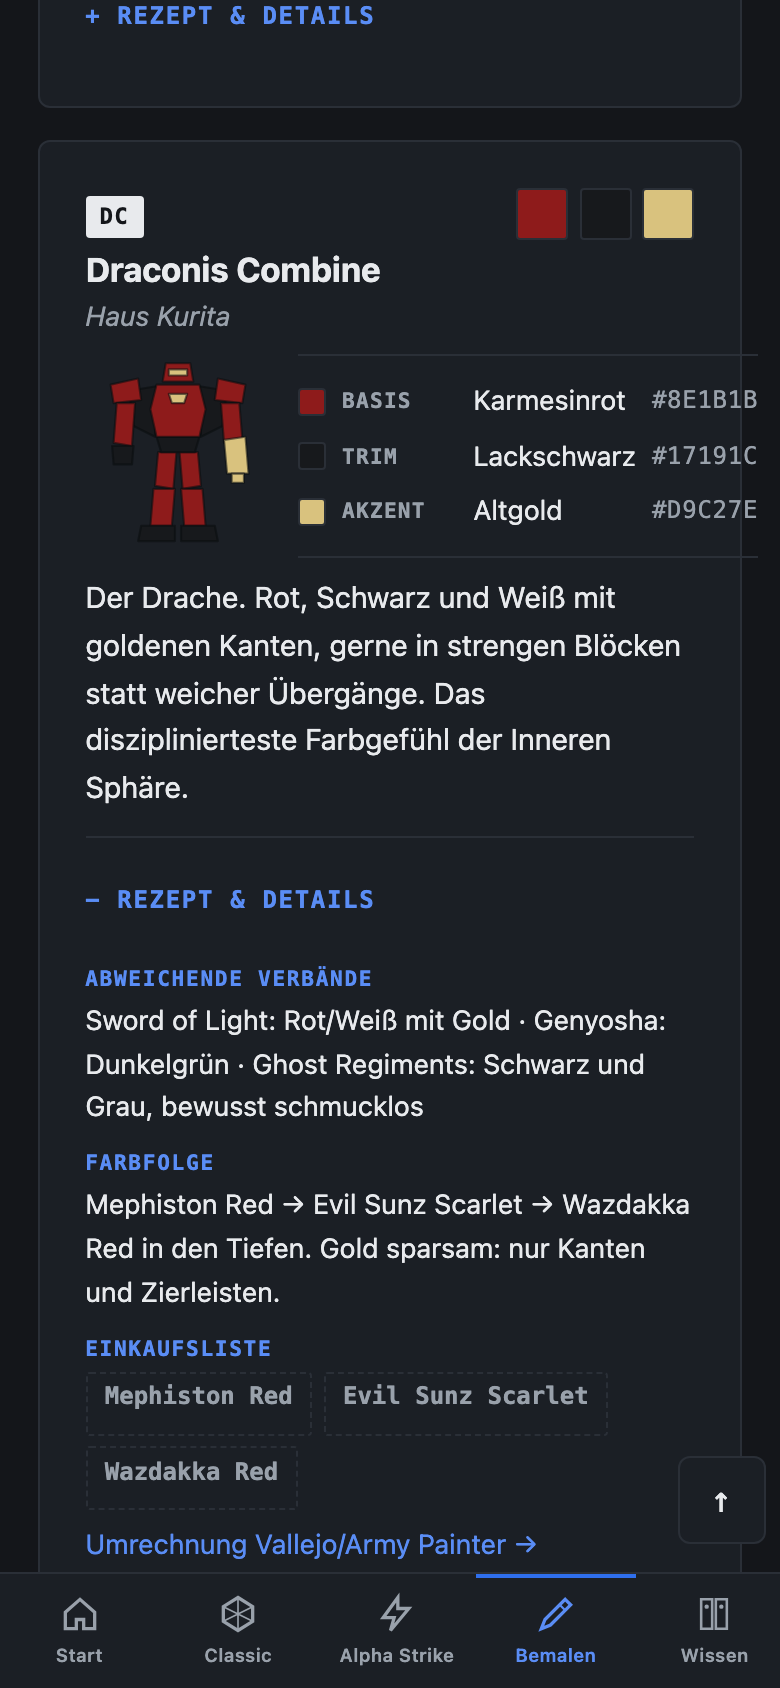
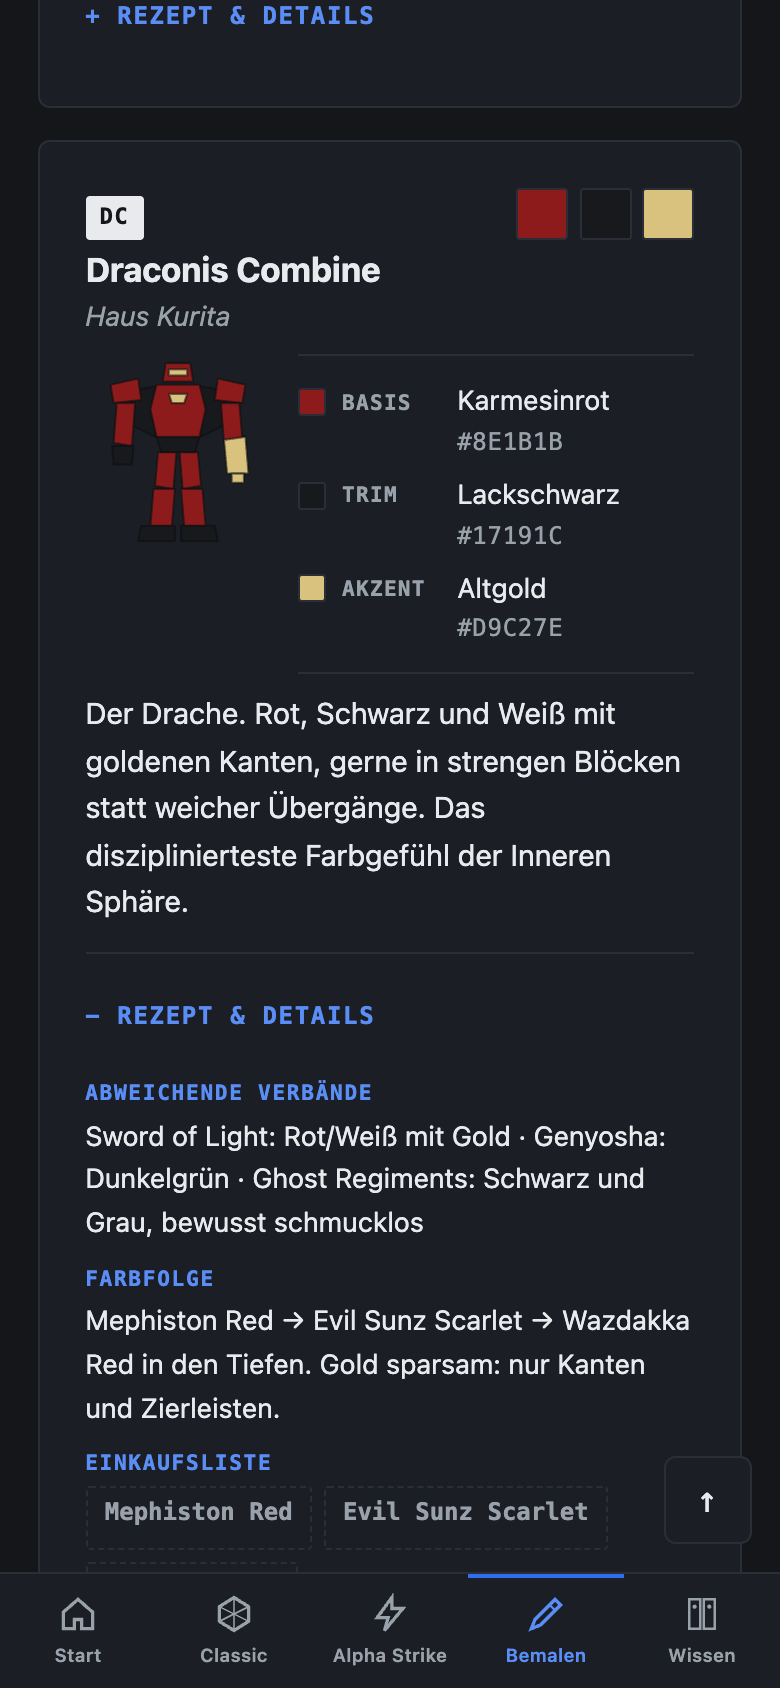
Fix the faction legend overflowing its card, and two dead links
The colour legend on a faction card sat in a flex row next to the
silhouette with `flex: 1` and no `min-width: 0`. A flex item will not
shrink below its content by default, so the row grew past the card
instead: 57 rows across 19 factions, and the page itself was 397 px wide
inside a 375 px viewport. `html { overflow-x: clip }` hid the scrollbar,
so the only symptom was the hex code being cut off at the card edge —
the one value you are there to read.

The legend is a grid now: swatch, role, name, hex, with the name on
minmax(0, 1fr) so it can shrink and wrap. Below 460 px the hex takes its
own line under the name, because German colour names and a hex code do
not fit side by side at phone width in any arrangement that keeps both
readable. The name span needed a class of its own to be addressable.

Also under Reference: bg.battletech.com no longer resolves at all, and
masterunitlist.info now redirects to masterunitlist.battletech.com. The
official site is battletech.com, which is where the downloads and errata
live; Catalyst Game Labs keeps a row of its own for the shop. And the
scheme workshop labelled its first colour "base" while the other two
were capitalised.

diff --git a/website/css/app.css b/website/css/app.css
@@ -220,14 +220,30 @@ td.num { text-align: right; white-space: nowrap; font-family: var(--mono); font-
 .f-colors { display: flex; gap: 0.35rem; flex: none; }
 .f-color { width: 26px; height: 26px; border-radius: 2px; border: 1px solid var(--line); }
 .f-legend { list-style: none; margin: 0.9rem 0; padding: 0.55rem 0; border-top: 1px solid var(--line); border-bottom: 1px solid var(--line); }
-.f-legend li { display: flex; align-items: center; gap: 0.5rem; padding: 0.18rem 0; font-size: 0.85rem; }
+/* Vier Spalten statt Flex-Zeile: Feld, Rolle, Farbname, Hex. Der Name
+   bekommt minmax(0, 1fr) - ohne die 0 als Minimum wächst er über die Karte
+   hinaus, sobald der Name lang ist ("Gebrochenes Weiß"). */
+.f-legend li {
+    display: grid; grid-template-columns: 14px 3.1rem minmax(0, 1fr) auto;
+    align-items: center; column-gap: 0.5rem; row-gap: 0.1rem;
+    padding: 0.18rem 0; font-size: 0.85rem;
+}
 .f-legend .f-color { width: 14px; height: 14px; }
 .f-legend .role {
     font-family: var(--mono); font-size: 0.66rem; font-weight: 600;
     text-transform: uppercase; letter-spacing: 0.06em;
-    color: var(--muted); width: 3.6rem; flex: none;
+    color: var(--muted);
 }
-.f-legend .hex { margin-left: auto; font-family: var(--mono); font-size: 0.75rem; color: var(--muted); letter-spacing: 0.03em; }
+.f-legend .f-name { overflow-wrap: break-word; }
+.f-legend .hex { justify-self: end; font-family: var(--mono); font-size: 0.75rem; color: var(--muted); letter-spacing: 0.03em; }
+
+/* Am Telefon ist neben Rolle und Namen kein Platz mehr für den Hex-Wert -
+   er bekommt eine eigene Zeile unter dem Namen, rechtsbündig. Am Maltisch
+   wird er abgelesen, abgeschnitten wäre er wertlos. */
+@media (max-width: 460px) {
+    .f-legend li { grid-template-columns: 14px 3.1rem minmax(0, 1fr); row-gap: 0; }
+    .f-legend .hex { grid-column: 3; justify-self: start; }
+}
 .f-card .f-text { margin: 0 0 0.6rem; font-size: 0.92rem; }
 .f-card details { border-top: 1px solid var(--line); margin-top: 0.8rem; padding-top: 0.6rem; }
 .f-card details summary {
@@ -668,7 +684,9 @@ a.tile:hover { border-color: var(--accent); }
 /* Bemalen: Silhouetten-Vorschau, Schema-Werkstatt, Farbtabelle */
 .f-preview { display: flex; gap: 0.9rem; align-items: flex-start; margin: 0.5rem 0; }
 .f-preview .mech-silhouette { width: 92px; flex: 0 0 auto; }
-.f-preview .f-legend { flex: 1; margin: 0; }
+/* min-width: 0 hebt die Vorgabe min-width: auto auf - ohne sie schrumpft ein
+   Flex-Kind nie unter seinen Inhalt und schiebt die Liste aus der Karte. */
+.f-preview .f-legend { flex: 1; min-width: 0; margin: 0; }
 .scheme-row { display: flex; gap: 1.2rem; flex-wrap: wrap; align-items: flex-start; }
 .scheme-form { flex: 1 1 15rem; }
 .scheme-preview { flex: 0 0 auto; margin: 0 auto; }

diff --git a/website/js/i18n-de.js b/website/js/i18n-de.js
@@ -1320,7 +1320,6 @@ window.MechsI18nWords = {
 "Official values, point costs and availability of all units": "Offizielle Werte, Punktkosten und Verfügbarkeit aller Einheiten",
 "Digital record sheets for Classic in the browser": "Digitale Record Sheets für Classic im Browser",
 "The most comprehensive collection of faction and regimental colours": "Die ausführlichste Sammlung von Fraktions- und Regimentsfarben",
-"Official product site, errata and downloads": "Offizielle Produktseite, Errata und Downloads",
 "Rules baseline &amp; changes": "Regelstand &amp; Änderungen",
 "Date": "Datum",
 "Change": "Änderung",
@@ -1424,6 +1423,8 @@ window.MechsI18nWords = {
 "Campaigns live only on this device – the hangar backup takes them along.": "Kampagnen liegen nur auf diesem Gerät – das Hangar-Backup nimmt sie mit.",
 "Responsible pursuant to § 18 (2) MStV (German State Media Treaty): {{site.operator.name}} (address as above).": "Verantwortlich im Sinne des § 18 Abs. 2 MStV: {{site.operator.name}} (Anschrift wie oben).",
 "This website is hosted by {{site.hosting.provider}} ({{site.hosting.address}}). The provider is a processor under Art. 28 GDPR; a data processing agreement is in place. When you visit, the server processes technically necessary connection data (e.g. IP address, time, requested file) in log files. The legal basis is Art. 6(1)(f) GDPR (secure operation of the site).": "Diese Website wird bei {{site.hosting.provider}} ({{site.hosting.address}}) gehostet. Der Anbieter ist Auftragsverarbeiter nach Art. 28 DSGVO; ein Auftragsverarbeitungsvertrag besteht. Beim Aufruf verarbeitet der Server technisch notwendige Verbindungsdaten (z. B. IP-Adresse, Zeitpunkt, abgerufene Datei) in Protokolldateien. Rechtsgrundlage ist Art. 6 Abs. 1 lit. f DSGVO (sicherer Betrieb der Seite).",
-"Rules reference, play aids and a painting guide for Classic BattleTech and Alpha Strike.": "Regelreferenz, Spielwerkzeuge und Bemalhandbuch für Classic BattleTech und Alpha Strike."
+"Rules reference, play aids and a painting guide for Classic BattleTech and Alpha Strike.": "Regelreferenz, Spielwerkzeuge und Bemalhandbuch für Classic BattleTech und Alpha Strike.",
+"The official site: news, downloads and errata": "Die offizielle Seite: Neuigkeiten, Downloads und Errata",
+"The publisher – books, boxes and rulebooks to buy": "Der Verlag – Bücher, Boxen und Regelwerke zum Kaufen"
 };
 window.MechsI18nPatterns = [["(\\d+)/missile", "$1/Rakete", "g"], ["^(\\d+) per shot$", "$1 je Schuss"], ["^(\\d+) / cluster$", "$1 / Cluster"], [" \\(water only\\)$", " (nur Wasser)"], ["^Ammo \\((.+)\\)$", "Munition ($1)"], [" \\(Rear\\)$", " (Heck)"], ["^min \\d+ · [\\d/]+$"], ["^Cluster \\d+×\\d+$"]];

diff --git a/website/de/knowledge/index.html b/website/de/knowledge/index.html
@@ -49,10 +49,11 @@
 <div class="table-scroll">
 <table>
 <tr><td><a href="https://www.sarna.net" rel="noopener">Sarna.net</a></td><td class="small">Das BattleTech-Wiki – jede Fraktion, jeder ’Mech, jede Ära</td></tr>
-<tr><td><a href="https://masterunitlist.info" rel="noopener">Master Unit List</a></td><td class="small">Offizielle Werte, Punktkosten und Verfügbarkeit aller Einheiten</td></tr>
+<tr><td><a href="https://masterunitlist.battletech.com" rel="noopener">Master Unit List</a></td><td class="small">Offizielle Werte, Punktkosten und Verfügbarkeit aller Einheiten</td></tr>
 <tr><td><a href="https://flechs.net" rel="noopener">Flechs Sheets</a></td><td class="small">Digitale Record Sheets für Classic im Browser</td></tr>
 <tr><td><a href="https://unitcolorcompendium.com" rel="noopener">Unit Color Compendium</a></td><td class="small">Die ausführlichste Sammlung von Fraktions- und Regimentsfarben</td></tr>
-<tr><td><a href="https://bg.battletech.com" rel="noopener">Catalyst Game Labs</a></td><td class="small">Offizielle Produktseite, Errata und Downloads</td></tr>
+<tr><td><a href="https://battletech.com" rel="noopener">BattleTech Official</a></td><td class="small">Die offizielle Seite: Neuigkeiten, Downloads und Errata</td></tr>
+<tr><td><a href="https://www.catalystgamelabs.com" rel="noopener">Catalyst Game Labs</a></td><td class="small">Der Verlag – Bücher, Boxen und Regelwerke zum Kaufen</td></tr>
 </table>
 </div>
 </div>

diff --git a/website/knowledge/index.html b/website/knowledge/index.html
@@ -48,10 +48,11 @@
 <div class="table-scroll">
 <table>
 <tr><td><a href="https://www.sarna.net" rel="noopener">Sarna.net</a></td><td class="small">The BattleTech wiki – every faction, every ’Mech, every era</td></tr>
-<tr><td><a href="https://masterunitlist.info" rel="noopener">Master Unit List</a></td><td class="small">Official values, point costs and availability of all units</td></tr>
+<tr><td><a href="https://masterunitlist.battletech.com" rel="noopener">Master Unit List</a></td><td class="small">Official values, point costs and availability of all units</td></tr>
 <tr><td><a href="https://flechs.net" rel="noopener">Flechs Sheets</a></td><td class="small">Digital record sheets for Classic in the browser</td></tr>
 <tr><td><a href="https://unitcolorcompendium.com" rel="noopener">Unit Color Compendium</a></td><td class="small">The most comprehensive collection of faction and regimental colours</td></tr>
-<tr><td><a href="https://bg.battletech.com" rel="noopener">Catalyst Game Labs</a></td><td class="small">Official product site, errata and downloads</td></tr>
+<tr><td><a href="https://battletech.com" rel="noopener">BattleTech Official</a></td><td class="small">The official site: news, downloads and errata</td></tr>
+<tr><td><a href="https://www.catalystgamelabs.com" rel="noopener">Catalyst Game Labs</a></td><td class="small">The publisher – books, boxes and rulebooks to buy</td></tr>
 </table>
 </div>
 </div>

diff --git a/website/de/painting/scheme.html b/website/de/painting/scheme.html
@@ -61,7 +61,7 @@
 <input autocomplete="off" id="scheme-name" maxlength="60" placeholder="z. B. Hanseatic Hussars" type="text"/>
 </div>
 <div class="scheme-color-row">
-<label for="color-base">Basis</label>
+<label for="color-base">Base</label>
 <input id="color-base" type="color" value="#2A2D31"/>
 <input aria-label="Basis als Hex-Code" id="hex-base" inputmode="text" maxlength="7" type="text"/>
 </div>

diff --git a/website/painting/scheme.html b/website/painting/scheme.html
@@ -60,7 +60,7 @@
 <input autocomplete="off" id="scheme-name" maxlength="60" placeholder="e.g. Hanseatic Hussars" type="text"/>
 </div>
 <div class="scheme-color-row">
-<label for="color-base">base</label>
+<label for="color-base">Base</label>
 <input id="color-base" type="color" value="#2A2D31"/>
 <input aria-label="Base as hex code" id="hex-base" inputmode="text" maxlength="7" type="text"/>
 </div>

diff --git a/website/js/factions.js b/website/js/factions.js
@@ -117,7 +117,7 @@
             chip.style.background = color.hex;
             li.appendChild(chip);
             li.appendChild(el("span", "role", role));
-            li.appendChild(el("span", "", color.name));
+            li.appendChild(el("span", "f-name", color.name));
             li.appendChild(el("span", "hex", color.hex.toUpperCase()));
             legend.appendChild(li);
         });

diff --git a/website/sw.js b/website/sw.js
@@ -4,7 +4,7 @@
    subfolder) and on the domain (at the root). */
 "use strict";
 
-var VERSION = "mechs-v143";
+var VERSION = "mechs-v147";
 /* Units from the unit database live in a cache of their OWN, which survives
    app updates - it only changes when the DATABASE has been generated again
    (count it up after every converter run!). The old units cache is cleared

diff --git a/CONTRIBUTING.md b/CONTRIBUTING.md
@@ -62,6 +62,16 @@ node --test tests/*.test.js
 And open it in the browser in **both** languages at 375 px. The tools do not
 see a dead click handler; a click does.
 
+If you touched a layout, check for horizontal overflow while you are there:
+
+```js
+document.documentElement.scrollWidth   // has to equal the viewport width
+```
+
+`html` carries `overflow-x: clip` as a safety net, so an overflow does not
+show up as a scrollbar — it silently cuts content off at the edge. German
+text is a third longer than English and finds these first.
+
 If you changed anything that is stored, say so in the pull request. Stored
 structures carry a version and are migrated in `website/js/migrate.js`; a
 migration is written once and never rewritten.
